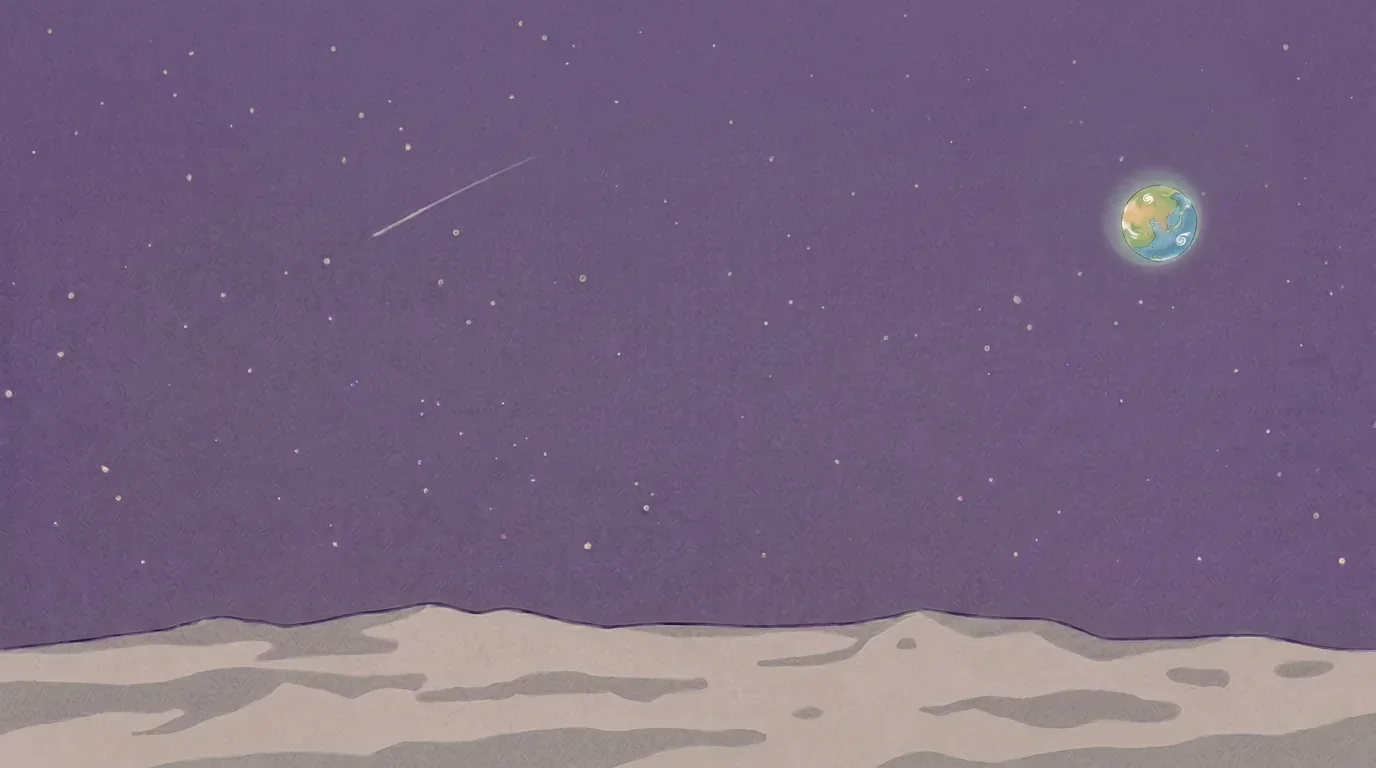
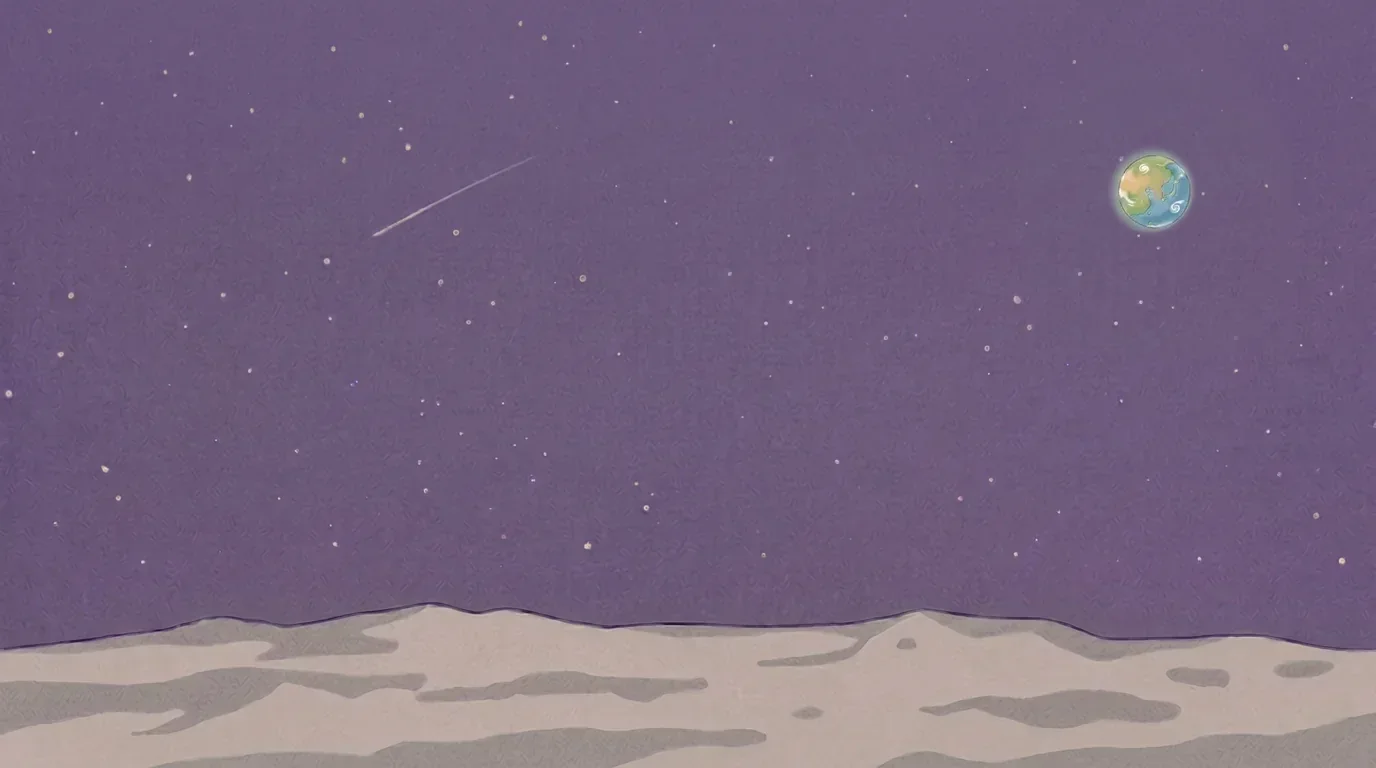
fix: (1)대환장 테스트 지구를 다른 행성과 동일한 크기·위치로 재제작 — 디스크만 오려내 옛 헤일로 잔상을 완전히 지우고 반경 42로 축소해 중심 (1151,190)에 배치, 발광 링도 동일 규격으로 정합, (2)홈 행성 발광색을 노란빛에서 행성 실제 색(복숭아빛 255,209,166)으로 교체 — 클릭 버스트 연출 색도 함께 조정

Changed region(s): [[0.7812, 0.1875, 0.875, 0.3438]]

diff --git a/index.html b/index.html
@@ -41,15 +41,15 @@
       animation: gm-satring 2.6s ease-in-out infinite;
     }
     @keyframes gm-satring {
-      0%, 100% { box-shadow: 0 0 9px 1px rgba(255, 222, 150, .5), 0 0 20px 5px rgba(255, 222, 150, .2); }
-      50% { box-shadow: 0 0 20px 5px rgba(255, 222, 150, .9), 0 0 46px 16px rgba(255, 222, 150, .38); }
+      0%, 100% { box-shadow: 0 0 9px 1px rgba(255, 209, 166, .5), 0 0 20px 5px rgba(255, 209, 166, .2); }
+      50% { box-shadow: 0 0 20px 5px rgba(255, 209, 166, .9), 0 0 46px 16px rgba(255, 209, 166, .38); }
     }
     .gm-satring.hot { animation-duration: 1.1s; }
     .gm-satring.burst { animation: gm-satburst 1.2s ease-out; }
     @keyframes gm-satburst {
-      0% { box-shadow: 0 0 12px 3px rgba(255, 222, 150, .7); }
-      30% { box-shadow: 0 0 40px 14px rgba(255, 235, 190, 1), 0 0 80px 30px rgba(255, 222, 150, .55); }
-      100% { box-shadow: 0 0 12px 3px rgba(255, 222, 150, .5); }
+      0% { box-shadow: 0 0 12px 3px rgba(255, 209, 166, .7); }
+      30% { box-shadow: 0 0 40px 14px rgba(255, 231, 188, 1), 0 0 80px 30px rgba(255, 209, 166, .55); }
+      100% { box-shadow: 0 0 12px 3px rgba(255, 209, 166, .5); }
     }
     /* 로켓 분사 불꽃 */
     .gm-flame { position: absolute; left: 0; top: 0; z-index: 11; pointer-events: none; display: none; }

diff --git a/play/tests.html b/play/tests.html
@@ -163,7 +163,7 @@
       var vp = document.createElement("div");
       vp.style.cssText = "position:fixed;inset:0;pointer-events:none;visibility:hidden";
       document.body.appendChild(vp);
-      var SAT = { w: 1376, h: 768, x: 1152, y: 216, r: 45, rx: 45, ry: 45 }; // 실측 행성 중심·반경
+      var SAT = { w: 1376, h: 768, x: 1151, y: 190, r: 45, rx: 42, ry: 42 }; // 실측 행성 중심·반경
       function place() {
         var vb = vp.getBoundingClientRect();
         var W = vb.width, H = vb.height;
